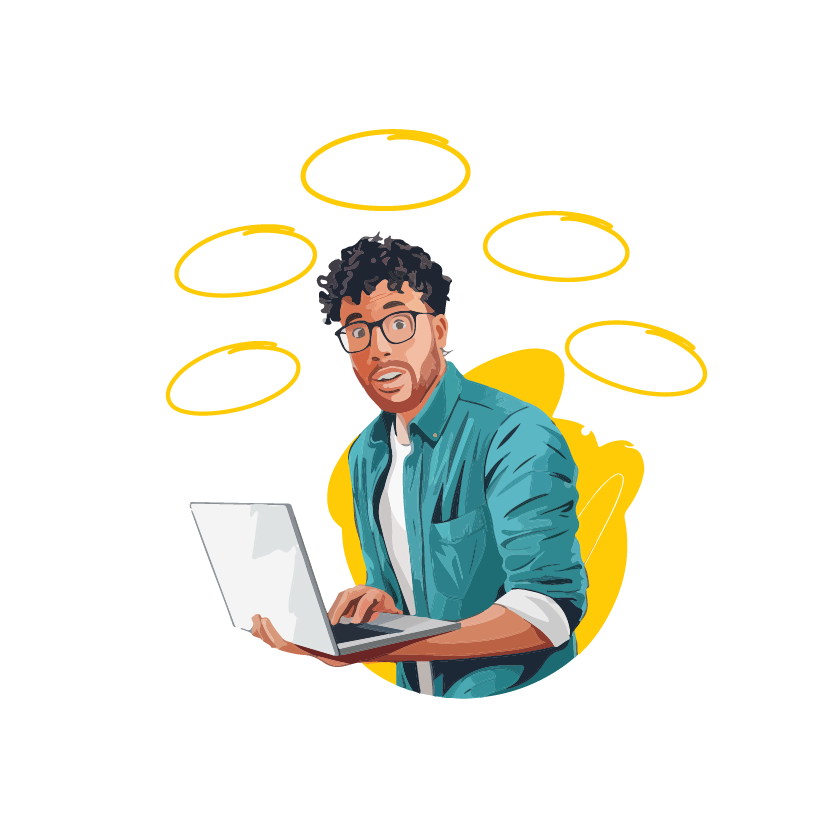
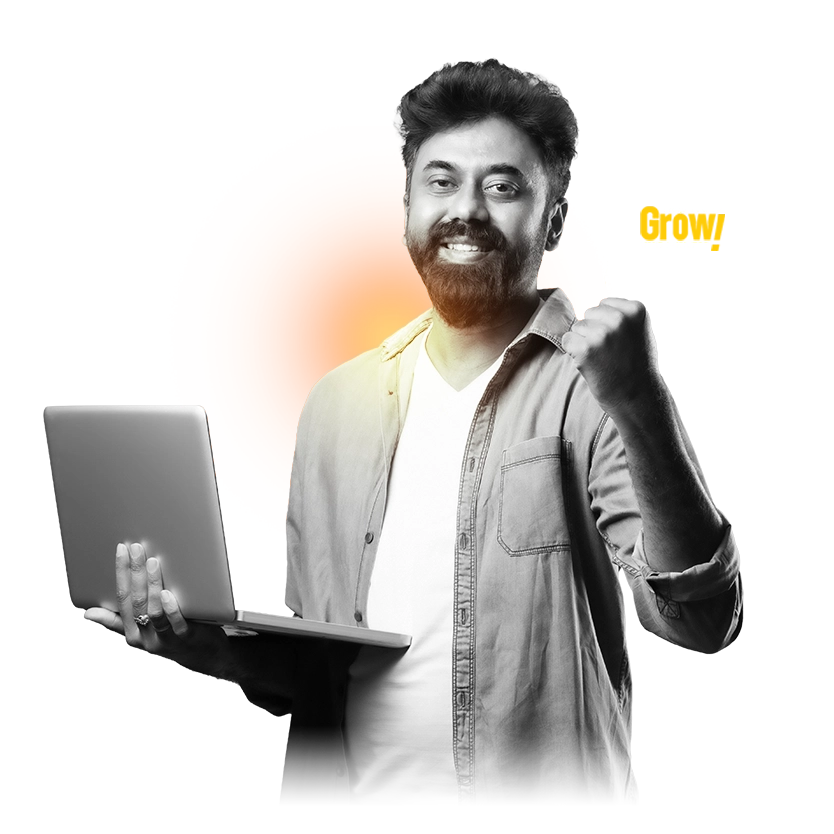
Refactor code structure for improved readability and maintainability

diff --git a/portfolio.html b/portfolio.html
@@ -258,8 +258,6 @@
       </div>
     </section>
 
-         HIDDEN MARQUEE SECTIONS (ক্যাটাগরি অনুযায়ী আলাদা করা হয়েছে)
-         ========================================================================== -->
 
     <section id="branding-marquee" class="portfolio-marquee-section">
       <div class="container">
